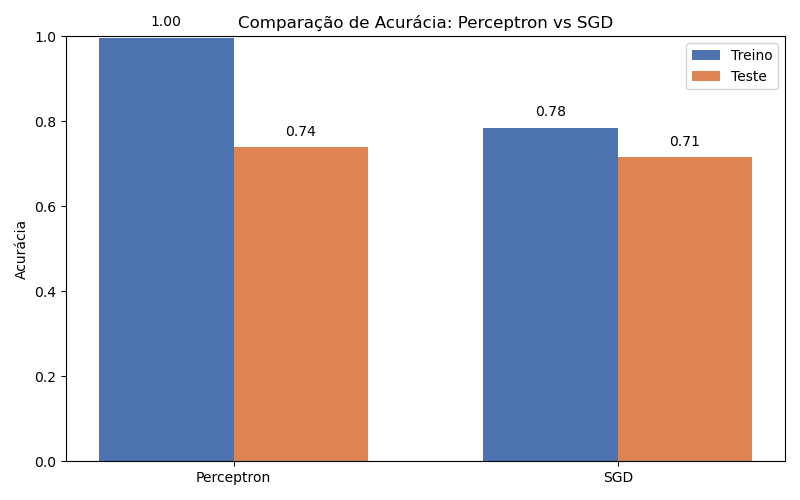
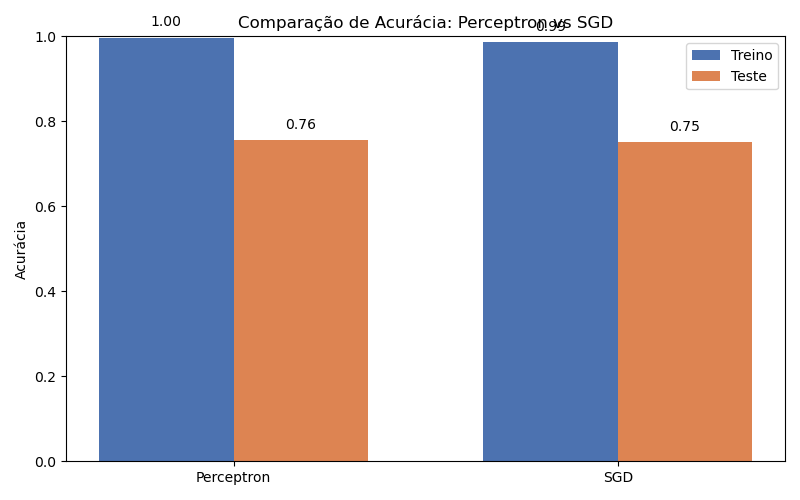
ajustes

Changed region(s): [[0.5938, 0.03, 0.9375, 0.33], [0.2812, 0.24, 0.4688, 0.3]]

diff --git a/MachineLearningCourse/aula02/BagOfWords.py b/MachineLearningCourse/aula02/BagOfWords.py
@@ -4,7 +4,7 @@ from nltk.corpus import stopwords
 import nltk
 
 # Descomente a linha abaixo na primeira execução para baixar as stopwords
-nltk.download('stopwords')
+#nltk.download('stopwords')
 
 
 def preprocess_text(text):
